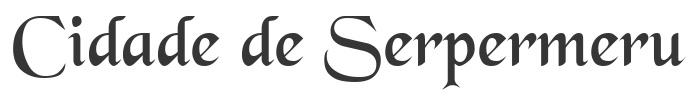
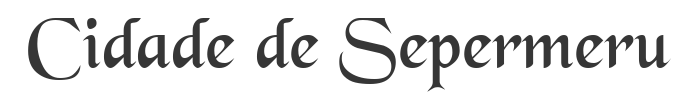
lore

Changed region(s): [[0.0, 0.15, 0.99, 0.9]]

diff --git a/historias.html b/historias.html
@@ -88,7 +88,7 @@ Ele correu até a barraca do arqueólogo, matou alguns mortos vivos no caminho. 
   <div id="box_geral2">
     <div class="box2">
     <p>
-Alguns dias depois Gardull chega em Serpermeru. Assim que entrou foi até o templo para fazer uma oração aos soldados que morreram naquela noite. Algumas horas depois, começou a procurar algum druida ou um curandeiro para o ajudar, porém nenhum deles sabia nada sobre o que poderia ser aquela mancha em sua pele.
+Alguns dias depois Gardull chega em Sepermeru. Assim que entrou foi até o templo para fazer uma oração aos soldados que morreram naquela noite. Algumas horas depois, começou a procurar algum druida ou um curandeiro para o ajudar, porém nenhum deles sabia nada sobre o que poderia ser aquela mancha em sua pele.
 <br><br>
 Logo depois foi até a Guilda informar sobre a missão que aceitou e entregou as anotações, finalizando seu serviço. Durante a noite, foi embora para estudar já que ninguém conseguiu o ajudar.
 <br><br>
